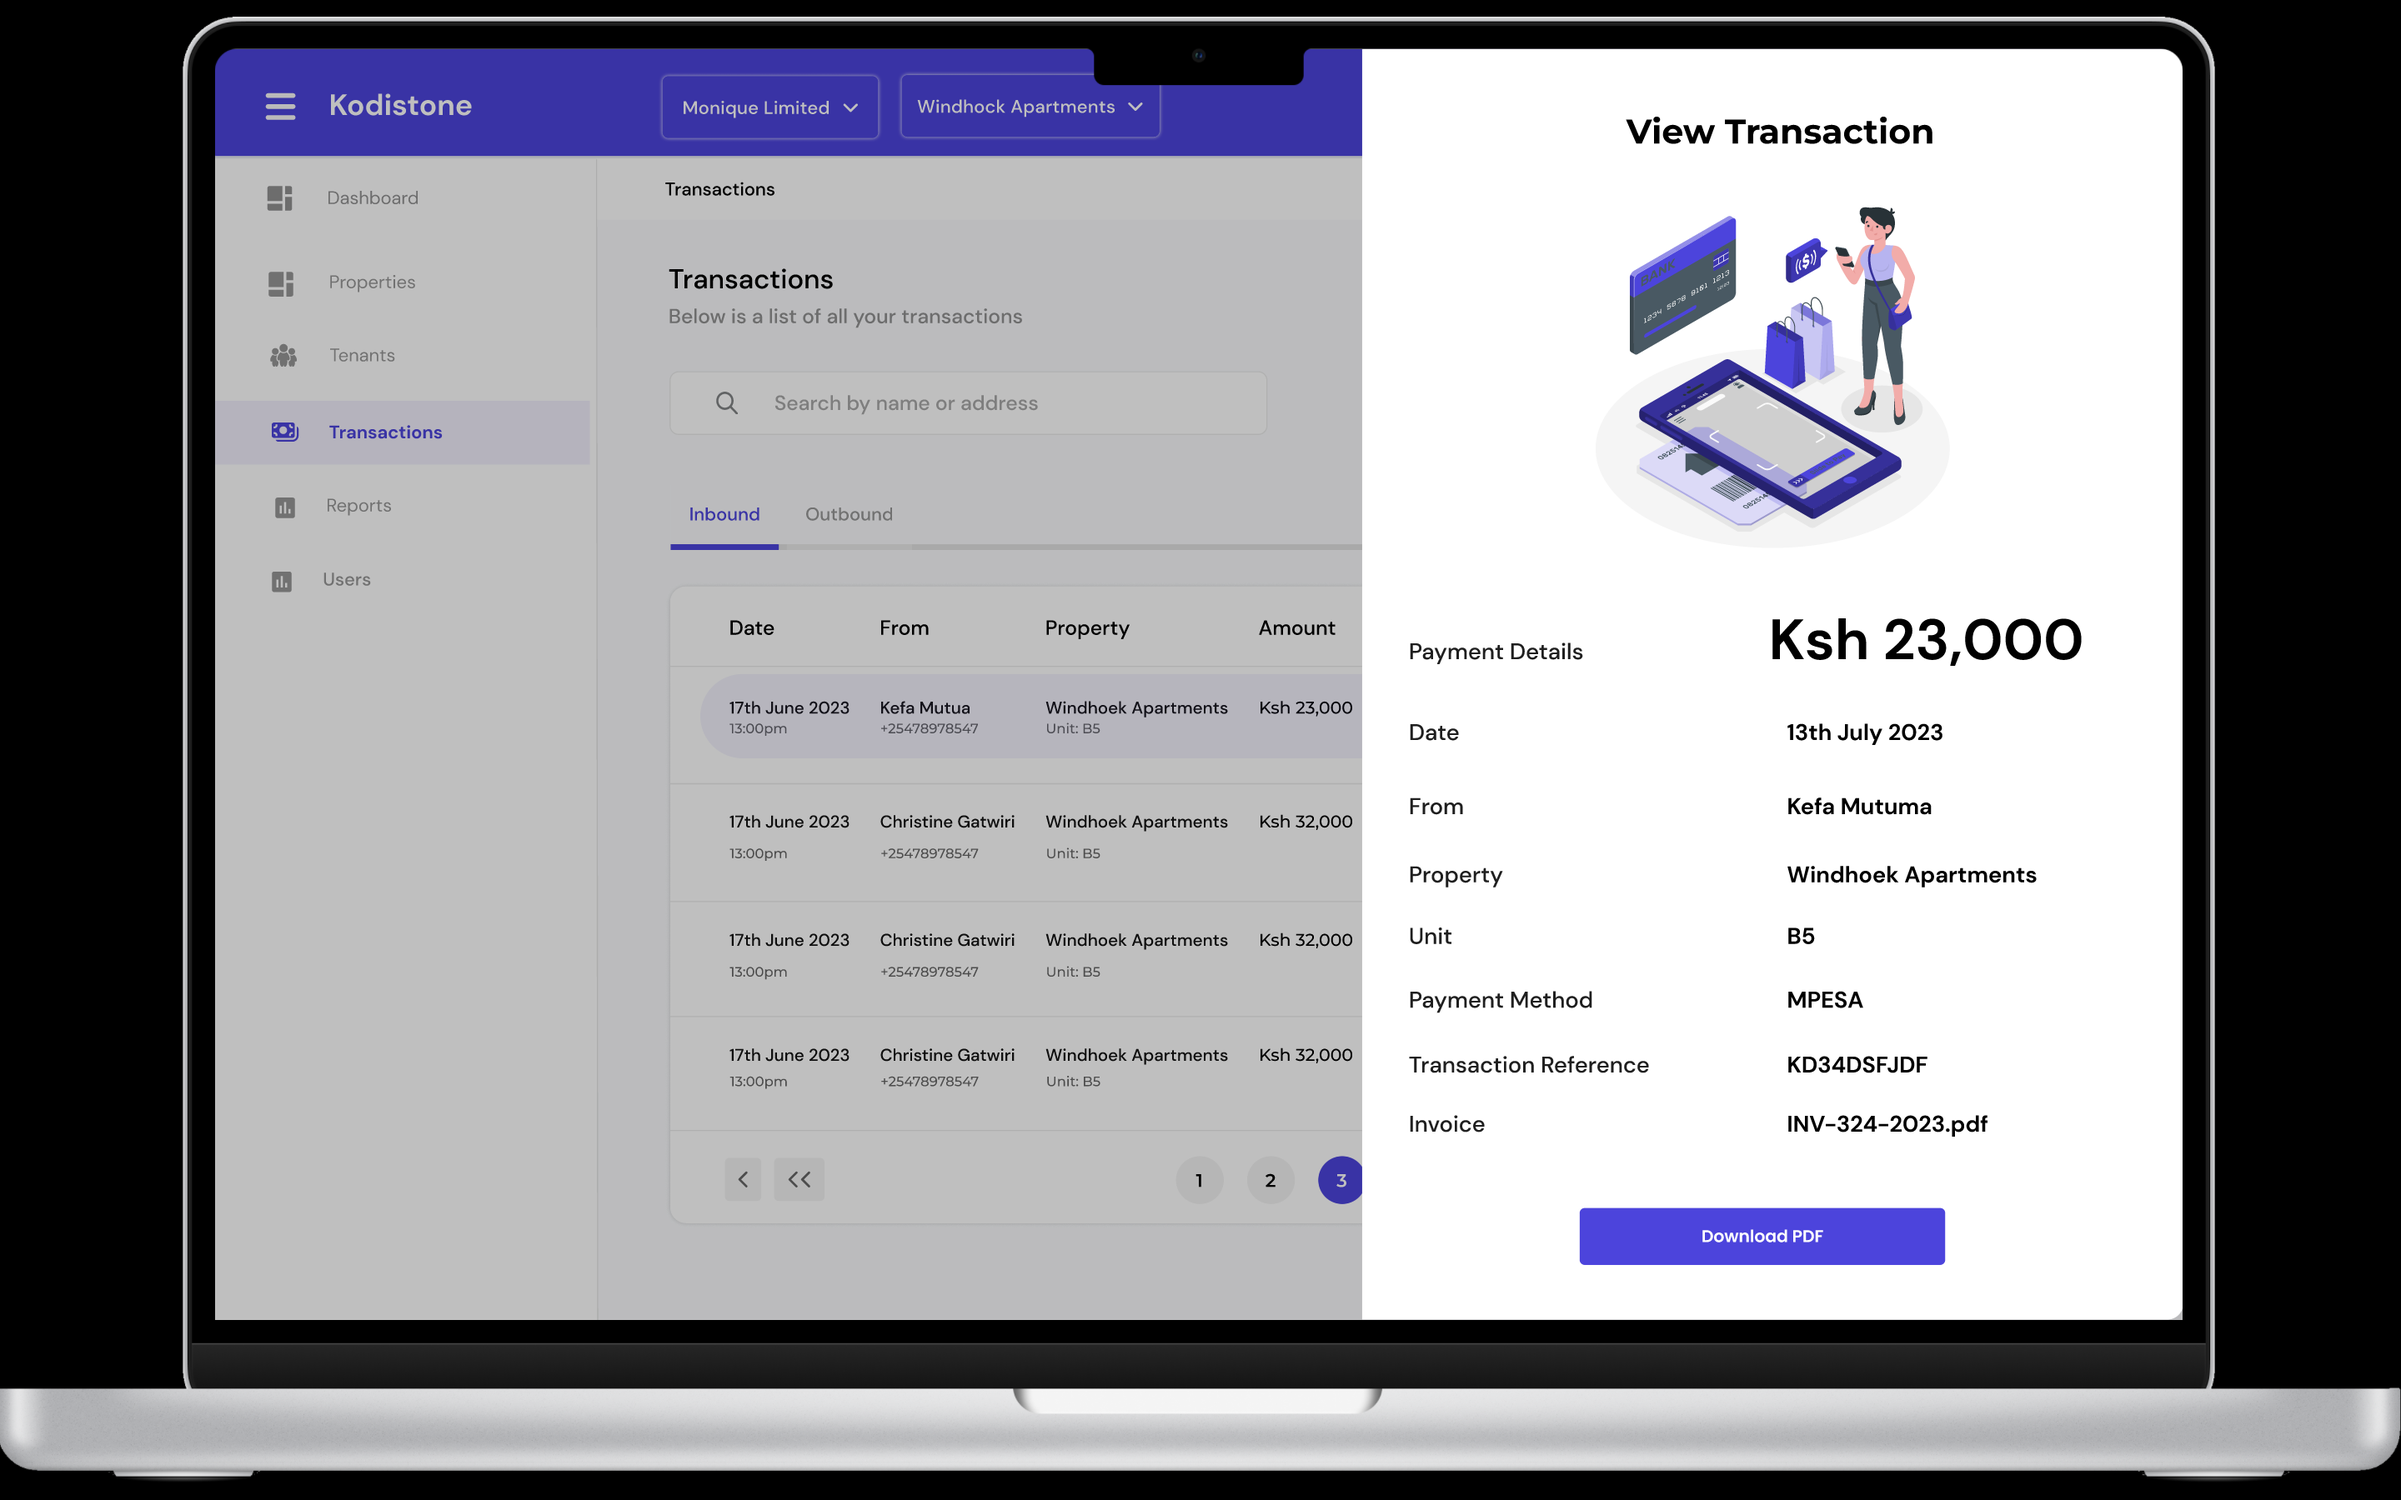
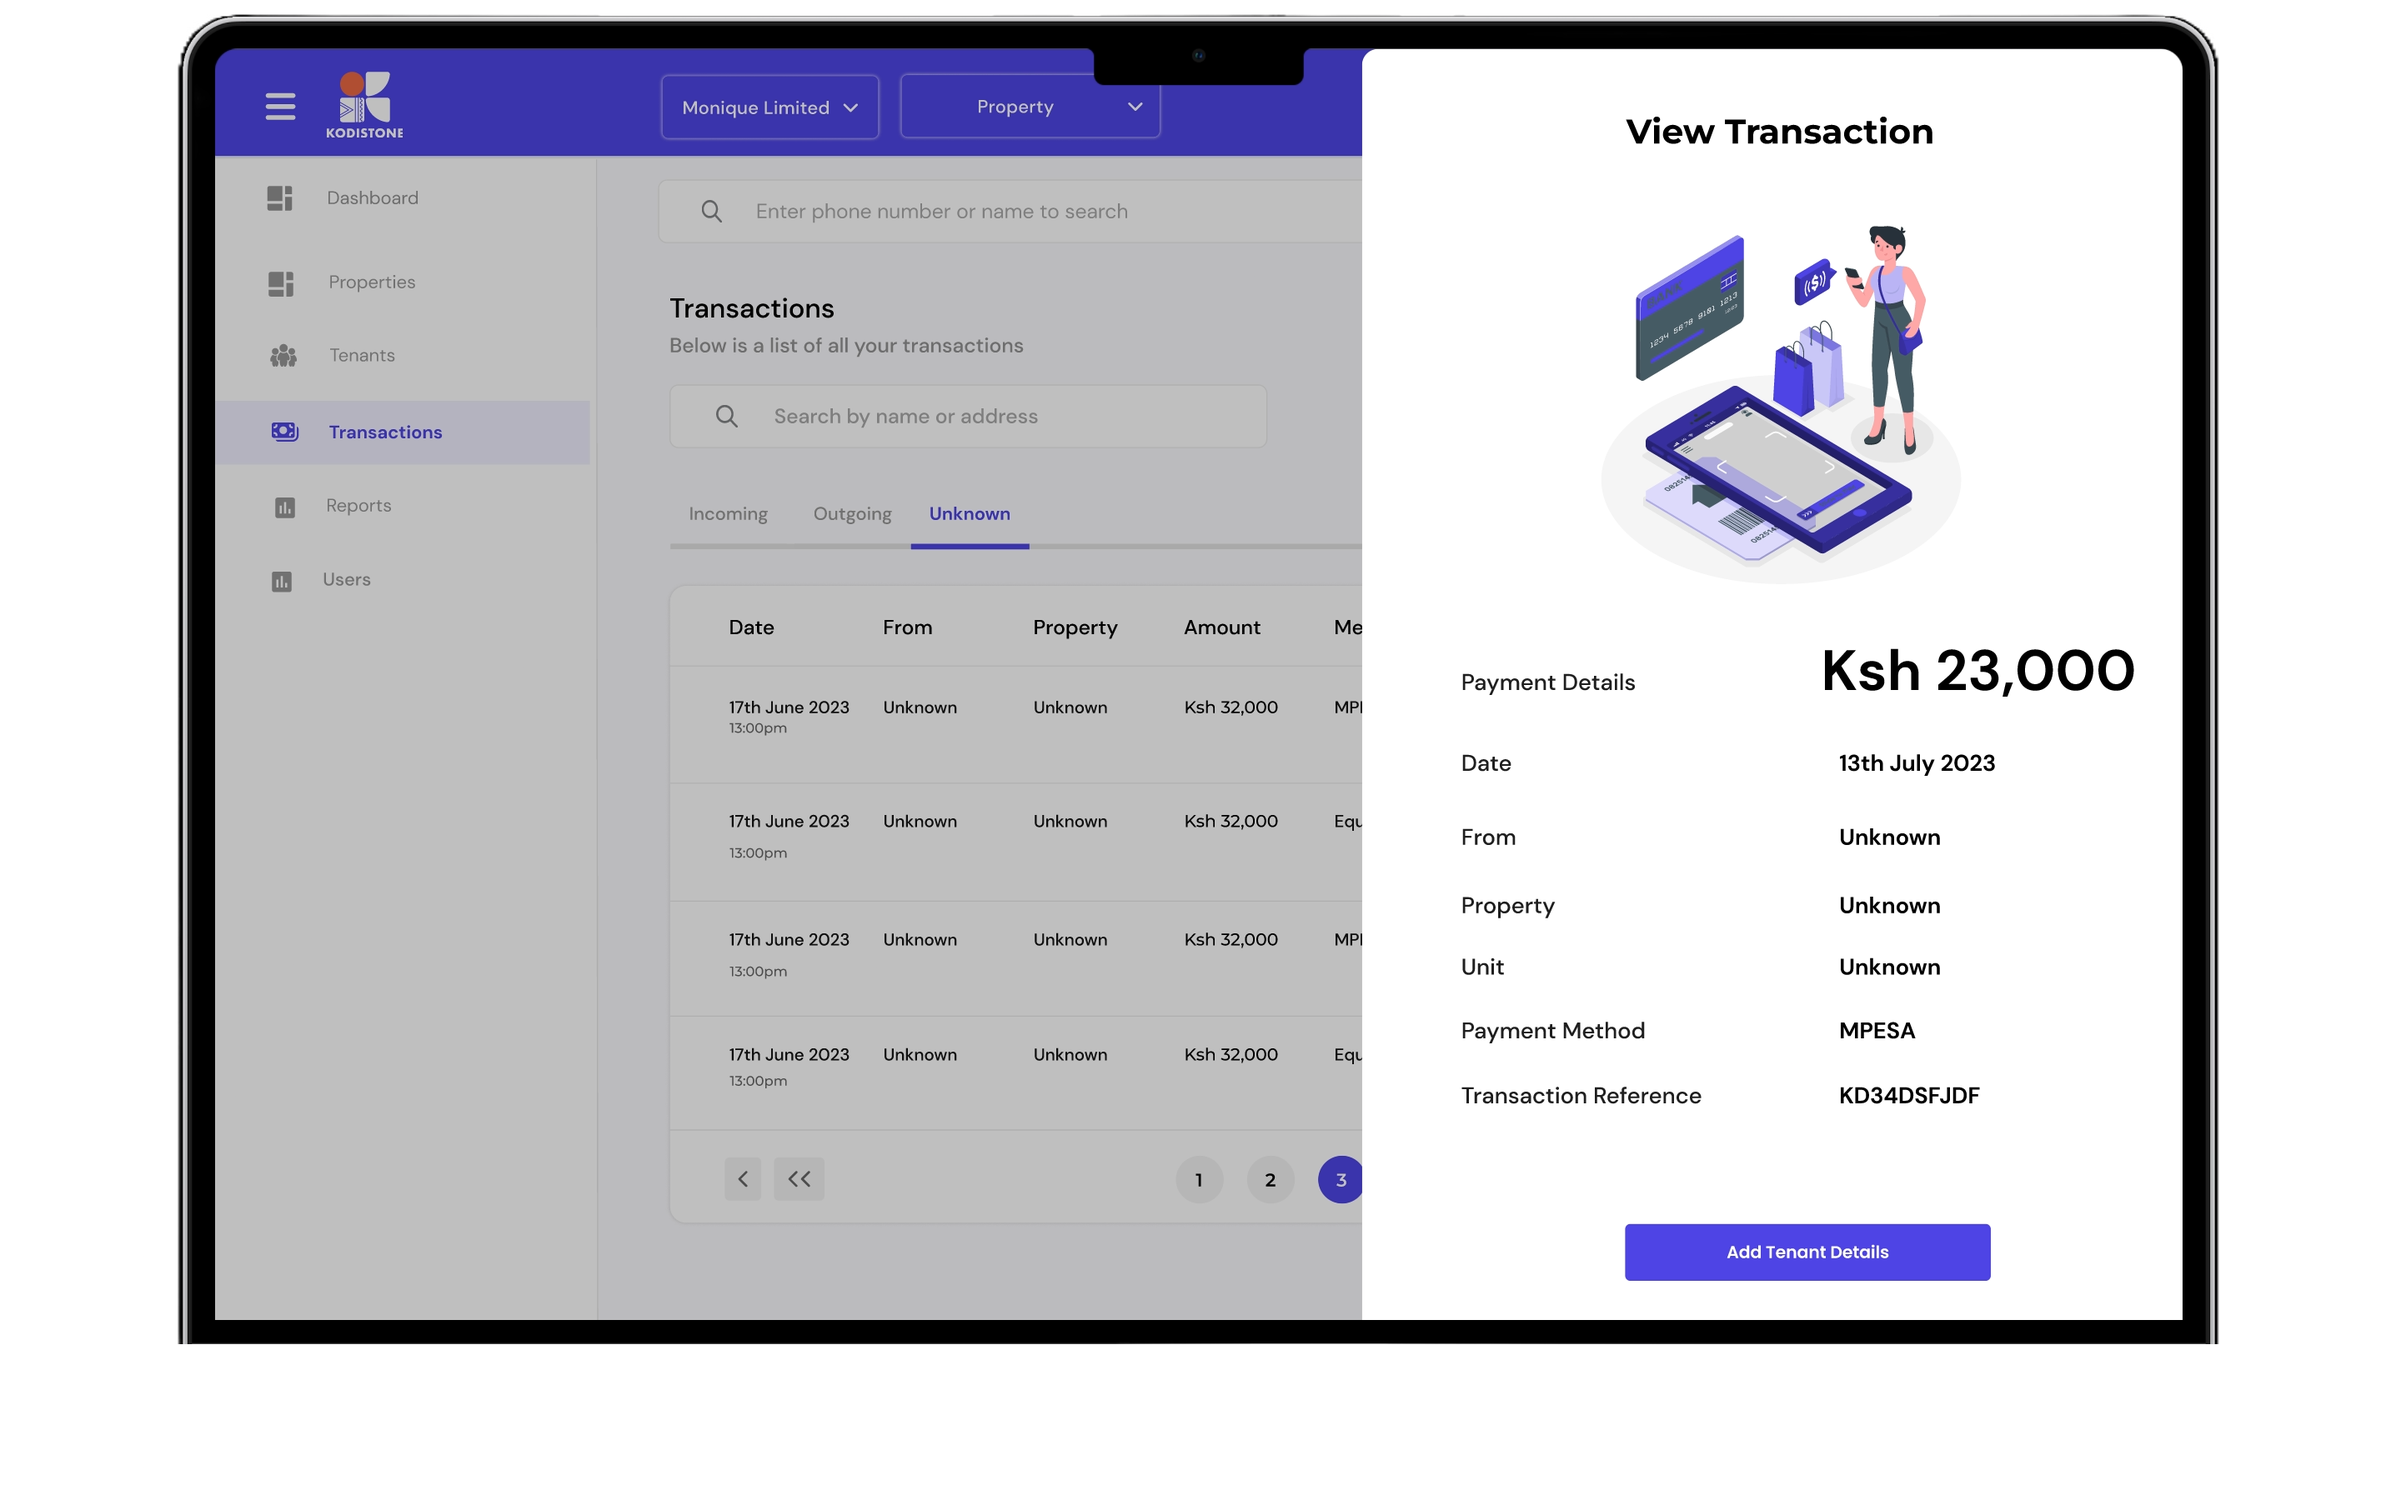
updated images

diff --git a/index.html b/index.html
@@ -243,7 +243,7 @@
                     </div> <!-- end of col -->
                     <div class="col-lg-6 col-xl-7 desktop">
                         <div class="image-container">
-                            <img class="img-fluid" src="images/Kodi images/kodi.png" alt="onboarding">
+                            <img class="img-fluid" src="images/Kodi images/Transaction.png" alt="onboarding">
                         </div> <!-- end of image-container -->
                     </div> <!-- end of col -->
                     
